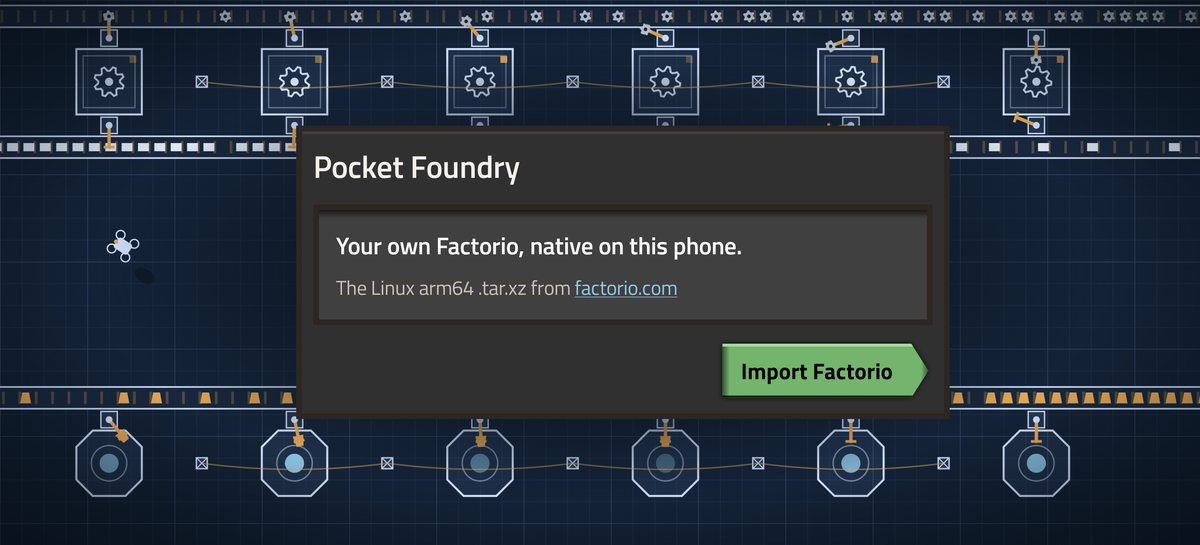
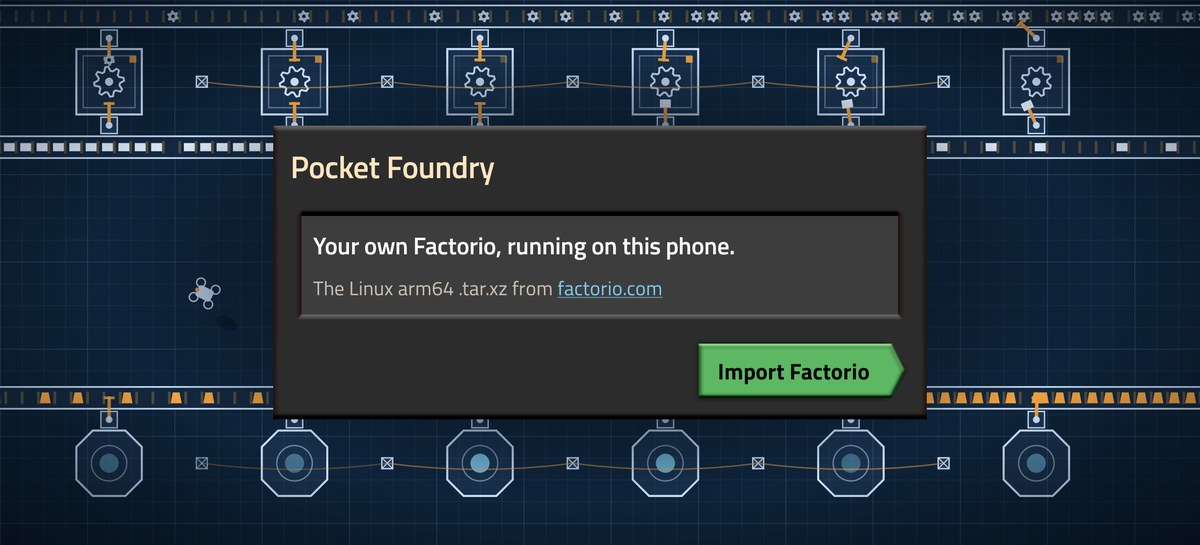
Say "without emulation" instead of "native"

diff --git a/app/src/main/java/app/pocketfoundry/LauncherActivity.kt b/app/src/main/java/app/pocketfoundry/LauncherActivity.kt
@@ -179,7 +179,7 @@ class LauncherActivity : Activity() {
         val panel = stack(this, Factorio.PANEL, sunken = false, padding = 8, gap = 10)
         panel.addView(heading(this, "Pocket Foundry"))
         val inset = stack(this, Factorio.INSET_LIGHT, sunken = true, padding = 12, gap = 6)
-        inset.addView(label(this, "Your own Factorio, native on this phone.", 17f, weight = 600))
+        inset.addView(label(this, "Your own Factorio, running on this phone.", 17f, weight = 600))
         inset.addView(LinearLayout(this).apply {
             addView(label(context, "The Linux arm64 .tar.xz from ", 14f, Factorio.MUTED))
             addView(label(context, "factorio.com", 14f, Factorio.LINK).apply {

diff --git a/NOTES.md b/NOTES.md
@@ -878,3 +878,10 @@ Termux:X11 requests its `forceOrientation` preference at runtime, overriding the
 maps to a fixed `SCREEN_ORIENTATION_LANDSCAPE`. Patch 0005 makes it `SENSOR_LANDSCAPE`. On the emulator, set gravity
 with `adb emu sensor set acceleration 9.8:0:0` / `-9.8:0:0` (`adb emu rotate` doesn't move the sensor): the game now
 turns between ROTATION_90 and ROTATION_270, stays landscape held upright, and touches still land.
+
+### Not "native" (2026-10-28)
+The tagline said the game runs "native on the phone's GPU". The CPU half holds (the game's ARM64 code runs straight
+on the CPU, its system calls go to Android's kernel, nothing emulates it), but the stack isn't native to Android
+(our glibc, an X server) and the GPU half is where the translation is: by default OpenGL goes through Zink onto
+Vulkan. The README, the repo description and the release notes now say "without emulation", and the welcome panel
+"running on this phone".

diff --git a/README.md b/README.md
@@ -1,7 +1,8 @@
 # Pocket Foundry
 
-**Play your own copy of Factorio on Android.** The official Linux ARM64 build from factorio.com runs natively on
-the phone's GPU, played with an on-screen controller or a real one. No streaming, no Windows emulation, no game files in the app.
+**Play your own copy of Factorio on Android.** The official Linux ARM64 build from factorio.com runs on the phone
+itself, with no emulation: straight on its CPU, and on its GPU through Mesa. Played with an on-screen controller or a
+real one. No streaming, no game files in the app.
 
 | | |
 |---|---|
